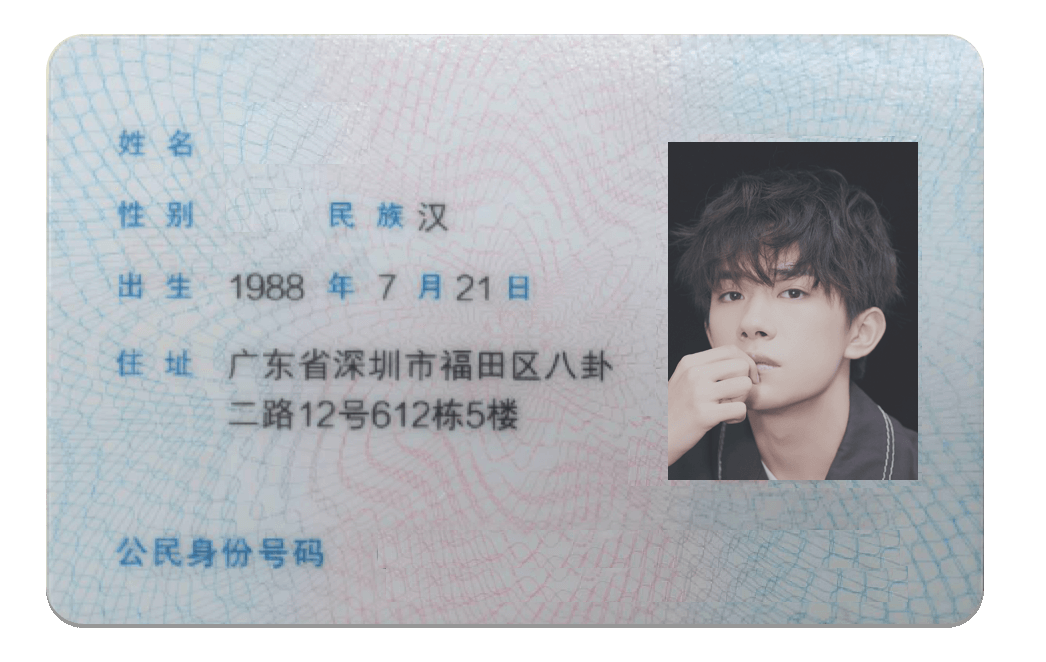
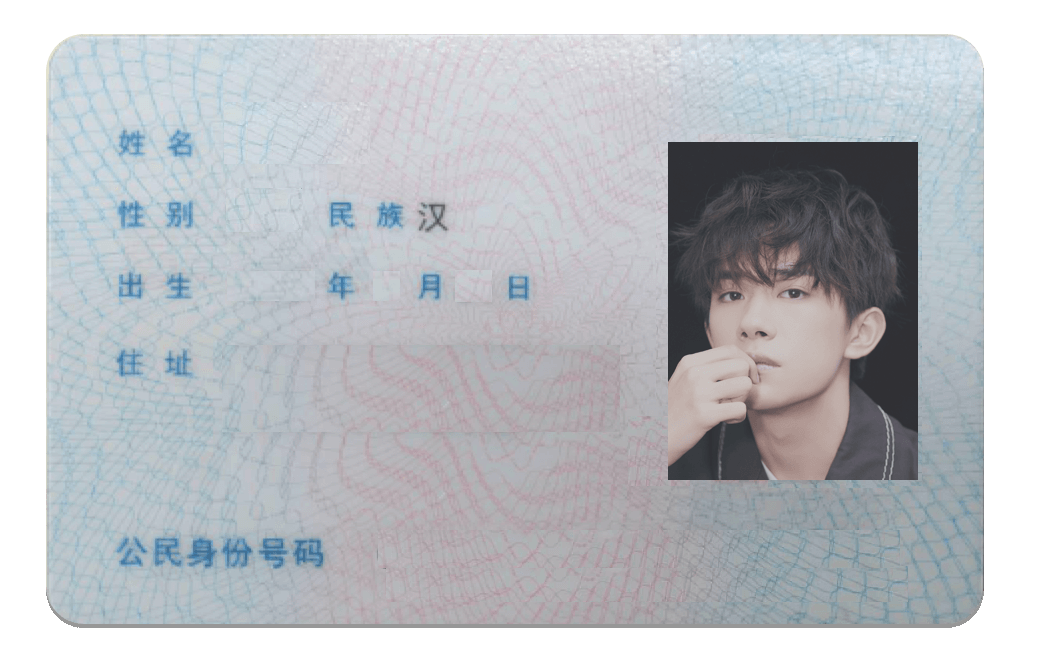
s

diff --git a/index.html b/index.html
@@ -48,17 +48,41 @@
 
     <script>
         function setVale() {
-            var name = document.getElementById("name");
-            var nameInput = document.getElementById("name-input");
-            name.innerHTML = nameInput.value;
 
-            var sex = document.getElementById("sex");
-            var sexInput = document.getElementById("sex-input");
-            sex.innerHTML = sexInput.value;
+          var idnumber = document.getElementById("idnumber-input").value;
 
-            var id = document.getElementById("id");
-            var idInput = document.getElementById("id-input");
-            id.innerHTML = idInput.value;
+          document.getElementById("name").innerHTML = document.getElementById("name-input").value;
+          document.getElementById("sex").innerHTML = idnumber.slice(16,17) % 2 == 0 ? "女" : "男";
+          // 430105199205090522
+          document.getElementById("birthyear").innerHTML = idnumber.slice(6,10);
+          document.getElementById("birthmonth").innerHTML = idnumber.slice(10,11) == "0" ? idnumber.slice(11,12) : idnumber.slice(10,12);
+          document.getElementById("birthday").innerHTML = idnumber.slice(12,13) == "0" ? idnumber.slice(13,14) : idnumber.slice(12,14);
+          document.getElementById("address").innerHTML = document.getElementById("address-input").value;
+          document.getElementById("idnumber").innerHTML = document.getElementById("idnumber-input").value;
+          document.getElementById("signoffice").innerHTML = document.getElementById("signoffice-input").value;
+
+
+          var sv = document.getElementById("validitystart-input").value;
+          var ev = document.getElementById("validityend-input").value;
+          var rsv, rev;
+          if(sv.length == 8)
+            rsv = sv.slice(0,4) + "." + sv.slice(4,6) + "." + sv.slice(6,8);
+          else
+            rsv = document.getElementById("validitystart-input").value.replace(/-|\//g, ".");
+
+          if(ev.length == 8)
+            rev = ev.slice(0,4) + "." + ev.slice(4,6) + "." + ev.slice(6,8);
+          else
+            rev = document.getElementById("validityend-input").value.replace(/-|\//g, ".");
+          document.getElementById("validity").innerHTML = rsv + "—" + rev;
+
+
+
+
+
+
+
+
         }
 
         // function changeImg() {
@@ -88,22 +112,44 @@
     margin: 5px auto;" type="text" id="name-input" name="name" value=""/>
     <br><br>
 
-
-    <input placeholder="请输入性别"
-           style="border: 1px solid #ccc;width: 200px;/*性别:*/
-    height: 38px;
-    border-radius: 10px; /*圆角矩形*/
-    text-indent: 10px; /*里面隐形的字体首行缩进*/
-    margin: 5px auto;" type="text" id="sex-input" name="sex" value=""/>
-    <br><br>
-
-
     <input placeholder="请输入身份号码"
            style="border: 1px solid #ccc;width: 200px;/*身份号码:*/
     height: 38px;
     border-radius: 10px; /*圆角矩形*/
     text-indent: 10px; /*里面隐形的字体首行缩进*/
-    margin: 5px auto;" type="text" id="id-input" name="id" value=""/>
+    margin: 5px auto;" type="text" id="idnumber-input" name="id" value=""/>
+    <br> <br>
+
+    <input placeholder="请输入住址"
+           style="border: 1px solid #ccc;width: 200px;/*身份号码:*/
+    height: 38px;
+    border-radius: 10px; /*圆角矩形*/
+    text-indent: 10px; /*里面隐形的字体首行缩进*/
+    margin: 5px auto;" type="text" id="address-input" name="id" value=""/>
+    <br> <br>
+
+    <input placeholder="签发机关"
+           style="border: 1px solid #ccc;width: 200px;/*身份号码:*/
+    height: 38px;
+    border-radius: 10px; /*圆角矩形*/
+    text-indent: 10px; /*里面隐形的字体首行缩进*/
+    margin: 5px auto;" type="text" id="signoffice-input" name="id" value=""/>
+    <br> <br>
+
+    <input placeholder="有效起期(格式如20120808)"
+           style="border: 1px solid #ccc;width: 200px;/*身份号码:*/
+    height: 38px;
+    border-radius: 10px; /*圆角矩形*/
+    text-indent: 10px; /*里面隐形的字体首行缩进*/
+    margin: 5px auto;" type="text" id="validitystart-input" name="id" value=""/>
+    <br> <br>
+
+    <input placeholder="有效止期"
+           style="border: 1px solid #ccc;width: 200px;/*身份号码:*/
+    height: 38px;
+    border-radius: 10px; /*圆角矩形*/
+    text-indent: 10px; /*里面隐形的字体首行缩进*/
+    margin: 5px auto;" type="text" id="validityend-input" name="id" value=""/>
     <br> <br>
 
     <button class="bubbly-button"
@@ -126,19 +172,18 @@
 
 <div style=" position: relative; letter-spacing: 0px;top: 0;left: 200px;color:#3c3c3c">
     <img style="z-index: -2000" src="sfz.png" id="changeImg" alt="身份证图片"/>
-    <div class="fontclass2"><span id="name"
-                                  style="position: absolute;font-size: 33px;letter-spacing:0px;top:115;left:235; ">汤婷秀</span>
-    </div>
-    <div class="fontclass2"><span id="sex" style="position: absolute;font-size: 30px;top:190;left:235;">女</span></div>
-    <div><span style="position: absolute;font-size: 30px; top: 268px; left: 235px;"><p hidden="hidden">1994</p></span>
-    </div>
-    <div><span style="position: absolute;font-size: 30px; top: 344px; left: 235px;"><p
-            hidden="hidden">广东省 深圳市 南山区</p></span></div>
-    <div class="fontclass"><span id="id" style="position: absolute;font-size: 45px;top: 533;left: 370;color: #575757;">130531198302111820</span>
+    <div class="fontclass2"><span id="name" style="position: absolute;font-size: 33px;letter-spacing:0px;top:115px;left:235px; ">汤婷秀</span></div>
+    <div class="fontclass2"><span id="sex" style="position: absolute;font-size: 30px;top:190px;left:235px;">女</span></div>
+    <div style="position: absolute;font-size: 30px; top: 264px; left: 235px;"><span id="birthyear">1994</span><span id="birthmonth" style="position: absolute;left: 147px">8</span><span id="birthday" style="position: absolute;left: 235px">8</span></div>
+    <div><span id="address" style="position: absolute;font-size: 30px; top: 344px; left: 235px; width: 385px;">广东省深圳市南山区一二路三四五六号巷</span></div>
+    <div class="fontclass"><span id="idnumber" style="position: absolute;font-size: 45px;top: 533px;left: 370px;color: #575757;">130531198302111820</span>
     </div>
 </div>
-<img style="position: relative;left: 200px;z-index: -2000" src="sfzbg.png" alt="身份证背面图片"/>
-
+<div>
+    <img style="position: relative;left: 200px;z-index: -2000" src="sfzbg.png" alt="身份证背面图片"/>
+    <div class="fontclass2"><span id="signoffice" style="position: absolute;font-size: 33px;letter-spacing:0px;top:1135px;left:655px; ">武汉市公安局新洲分局</span></div>
+    <div class="fontclass2"><span id="validity" style="position: absolute;font-size: 33px;letter-spacing:0px;top:1210px;left:660px; ">2001.04.05—2021.04.05</span></div>
+</div>
 </body>
 
 </html>
